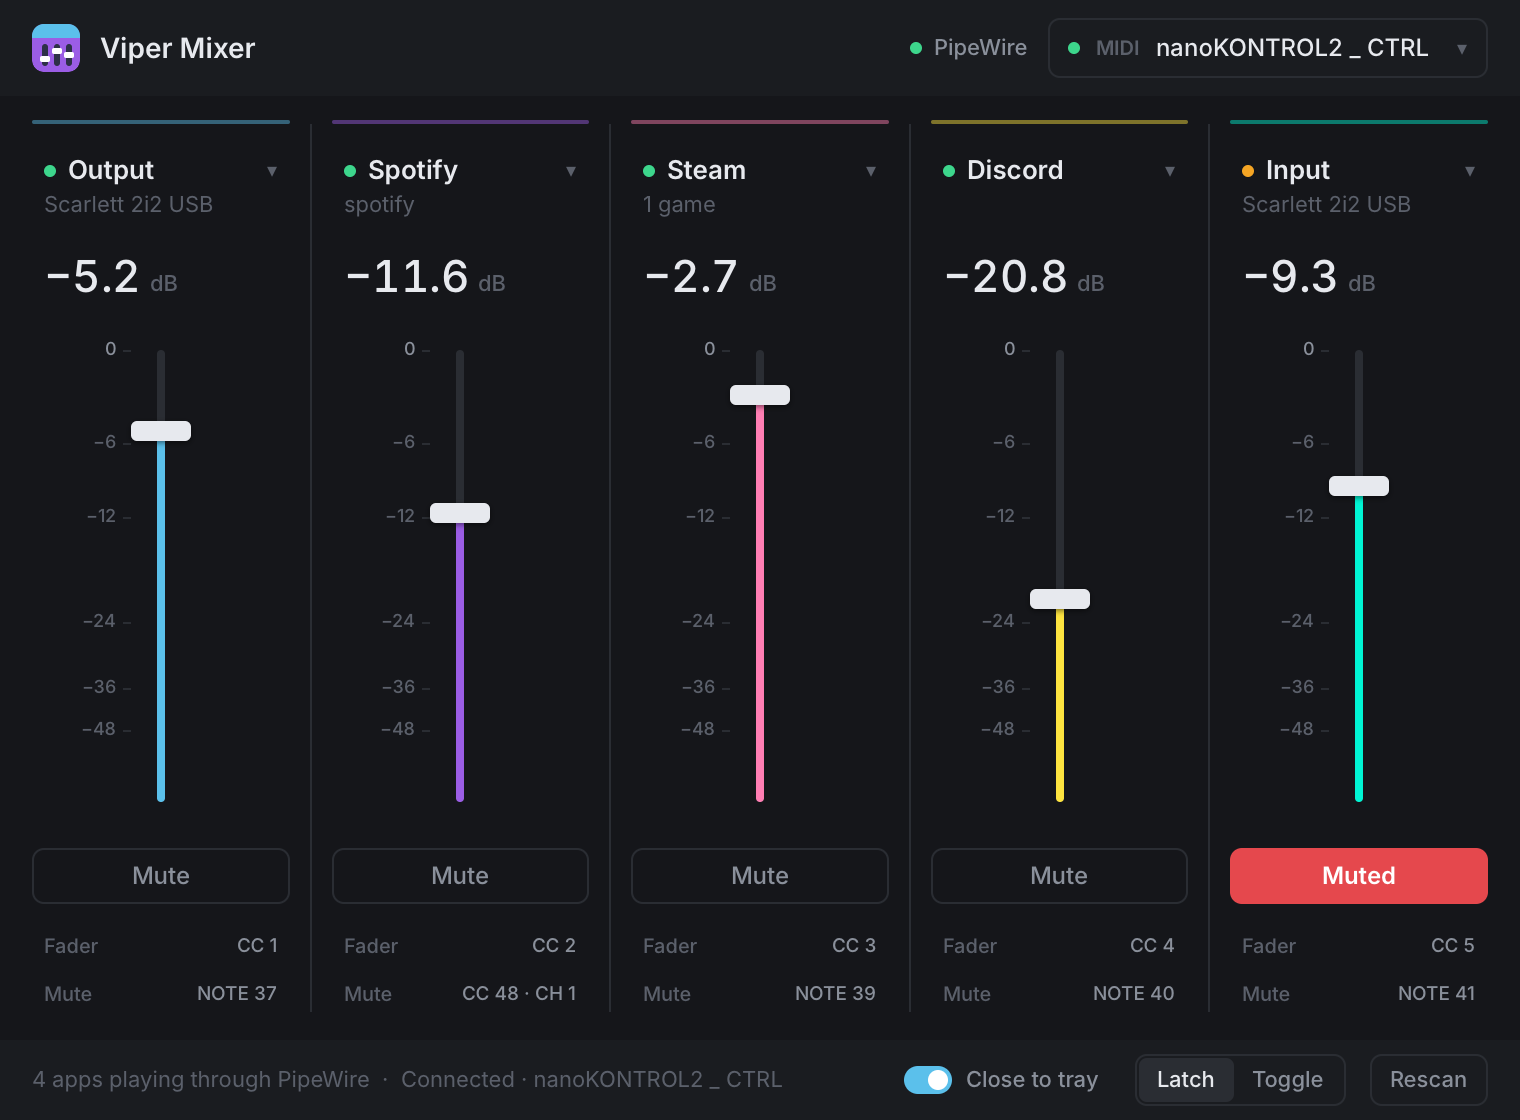
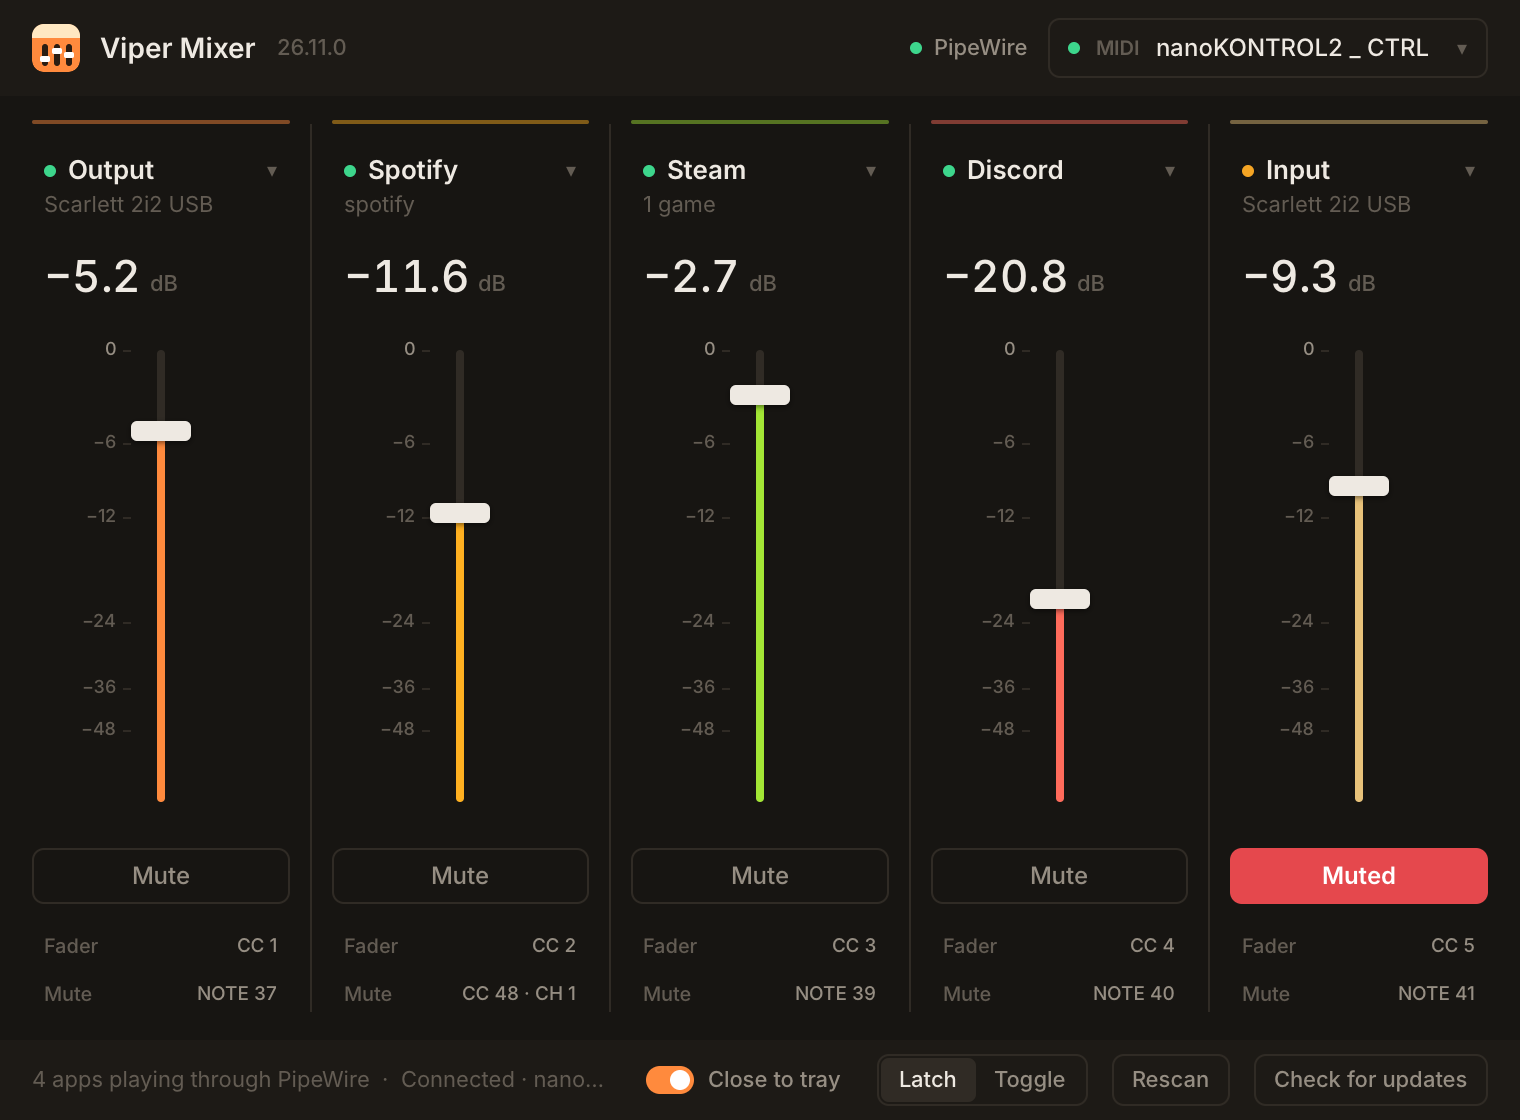
Give the mixer warm console colours
Changelog: Changed: Viper Mixer has warm orange, amber and lime colours and a matching orange icon, so it no longer looks like Viper Music on the taskbar or side by side.

diff --git a/src/ui.rs b/src/ui.rs
@@ -29,15 +29,15 @@ const ACTIVITY: Duration = Duration::from_millis(140);
 const MARKS: [f32; 6] = [0.0, -6.0, -12.0, -24.0, -36.0, -48.0];
 const SHORT_MARKS: [f32; 3] = [0.0, -12.0, -48.0];
 
-/// Patchwork's palette, one colour per strip.
-const ACCENTS: [&str; FADER_COUNT] = ["#5BC0EB", "#9B5DE5", "#FF7EB3", "#FEE440", "#00F5D4"];
+/// Warm console colours, one per strip, kept apart from Viper Music's blues and magentas.
+const ACCENTS: [&str; FADER_COUNT] = ["#FF8A3D", "#FFB020", "#A3E635", "#FF6B5B", "#E8C27A"];
 
-const BG: &str = "#15161A";
-const PANEL: &str = "#1A1C20";
-const HAIR: &str = "#2A2D33";
-const TEXT: &str = "#E7E9EE";
-const DIM: &str = "#8A909B";
-const FAINT: &str = "#5B606B";
+const BG: &str = "#171512";
+const PANEL: &str = "#1D1A16";
+const HAIR: &str = "#302B25";
+const TEXT: &str = "#EEE9E2";
+const DIM: &str = "#968E83";
+const FAINT: &str = "#635C53";
 const RED: &str = "#E5484D";
 
 fn c(hex: &str) -> Color {
@@ -202,16 +202,16 @@ fn logo() -> El {
             el().key(format!("slot{index}"))
                 .size(3.0, 11.0)
                 .radius(1.5)
-                .fill(c("#2D3047"))
+                .fill(c("#2B1D12"))
                 .child(el().size(5.0, 3.0).radius(1.0).absolute(-1.0, top).fill(Color::WHITE)),
         );
     }
     el().key("logo")
         .size(24.0, 24.0)
         .radius(6.0)
-        .fill(c("#9B5DE5"))
+        .fill(c("#FF8A3D"))
         .clip_rounded(6.0)
-        .child(el().size(24.0, 7.0).absolute(0.0, 0.0).fill(c("#5BC0EB")))
+        .child(el().size(24.0, 7.0).absolute(0.0, 0.0).fill(c("#FFE8C2")))
         .child(faders)
         .a11y_hidden()
 }
